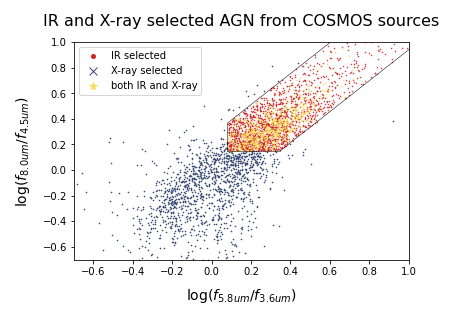
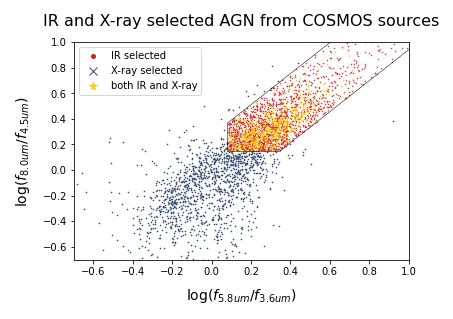
change to bolder yellow (better vis against white)

Changed region(s): [[0.4945, 0.3103, 0.6799, 0.4796], [0.1854, 0.2539, 0.2163, 0.2821]]

diff --git a/Code/plotting.py b/Code/plotting.py
@@ -5,7 +5,7 @@ import matplotlib as mpl
 # color constants
 c_ir        = '#CE2727'     # Fire Engine Red   # use this for IR sources
 c_xray      = '#384E77'     # Y In Mn Blue      # use this for Xray sources
-c_ir_xray   = '#F9DC5C'     # Naples Yellow     # use this for matched IR and Xray sources
+c_ir_xray   = '#F6CD13'     # Jonquil           # use this for matched IR and Xray sources
 
 
 # redefine the defaults for plots
